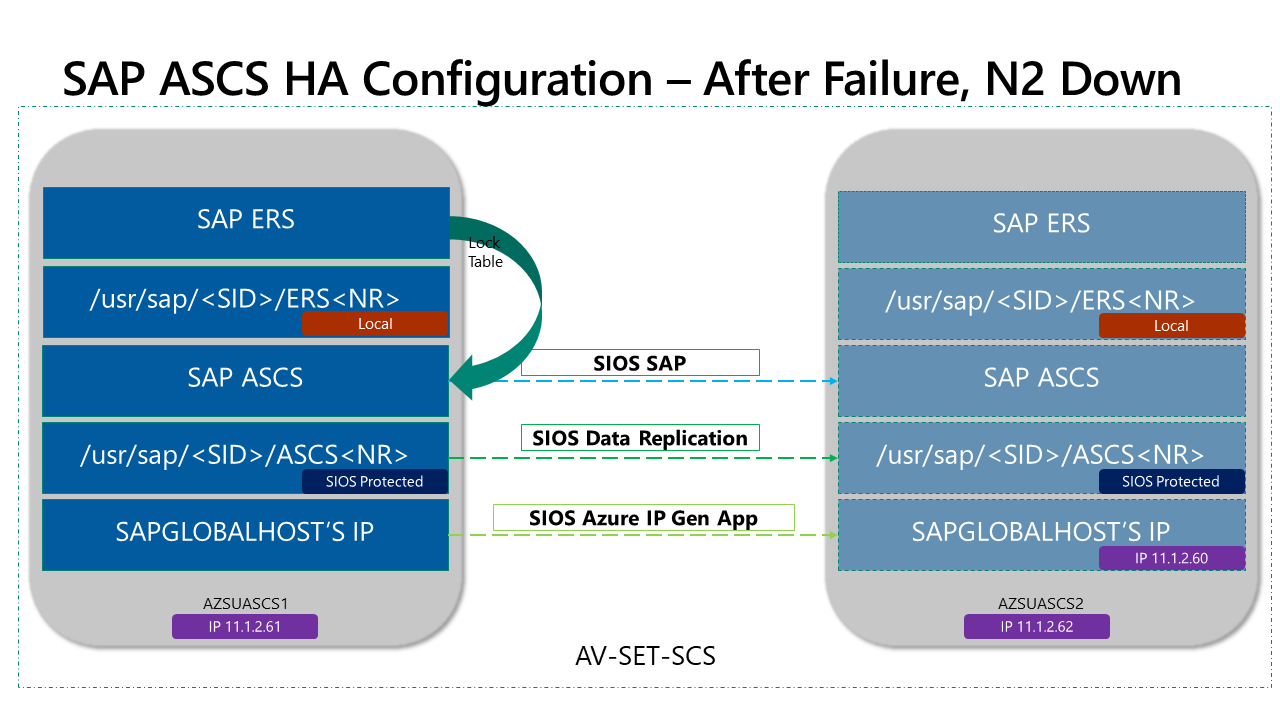
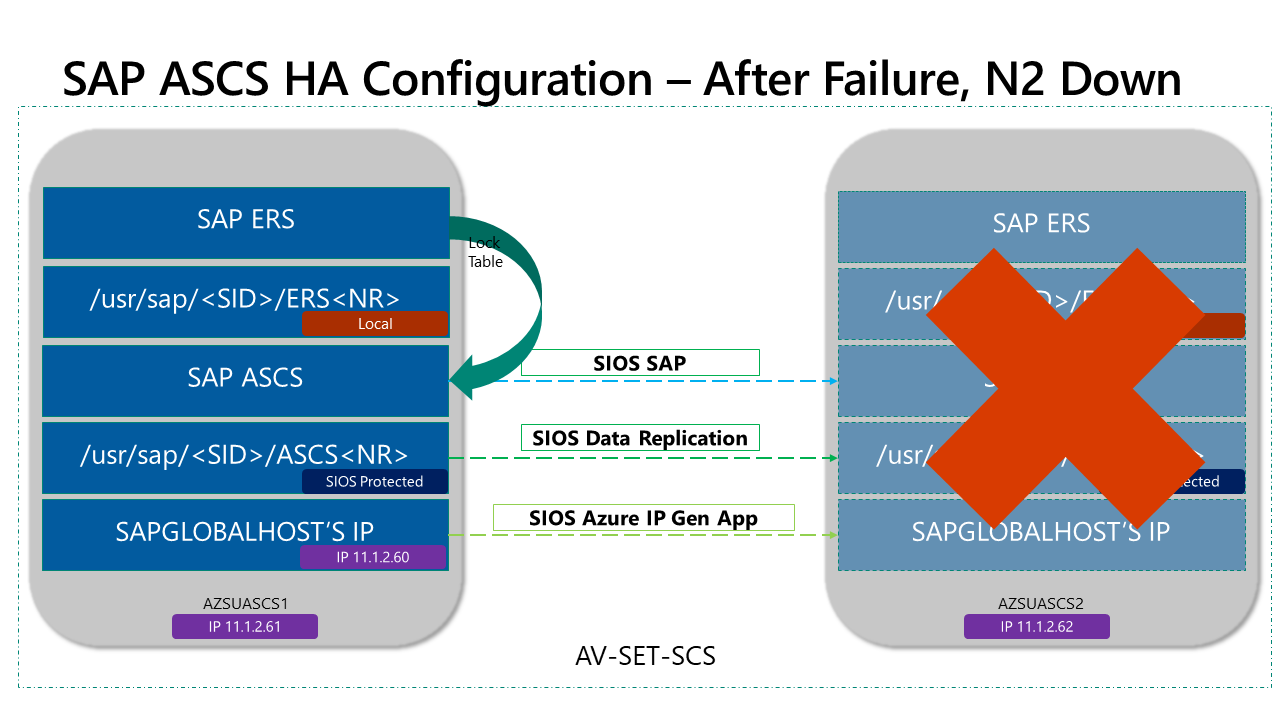
b

Changed region(s): [[0.7188, 0.3361, 1.0, 0.7944], [0.2188, 0.7333, 0.375, 0.7944]]

diff --git a/HA-for-SAP-(A)SCS.md b/HA-for-SAP-(A)SCS.md
@@ -60,15 +60,15 @@ In the (A)SCS HA configuration shown below, The SAP System S4D's ASCS is running
 
 ![ASCS-SIOS](/99_images/HA1/Slide1.png)
 
-Upon AZSUASCS1 node Fails
+Upon AZSUASCS1 node-1 Fails
 
 ![ASCS-SIOS](/99_images/HA1/Slide2.png)
 
-Node 1 Comes back
+Upon AZSUASCS1 node-1 Comes back
 
 ![ASCS-SIOS](/99_images/HA1/Slide3.png)
 
-Node 2 fails
+Upon AZSUASCS2 node-2 Fails
 
 ![ASCS-SIOS](/99_images/HA1/Slide4.png) 
 
